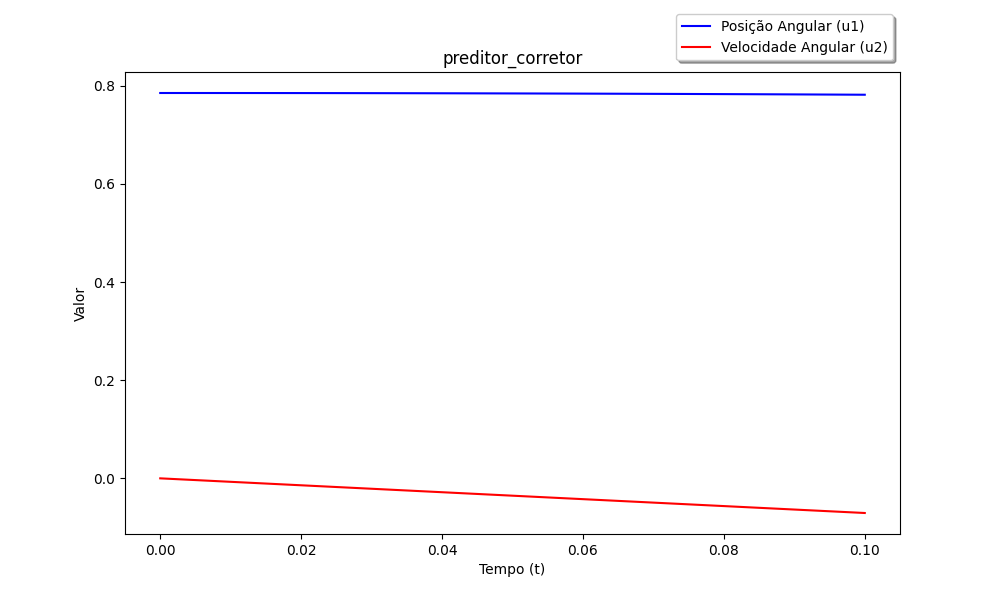
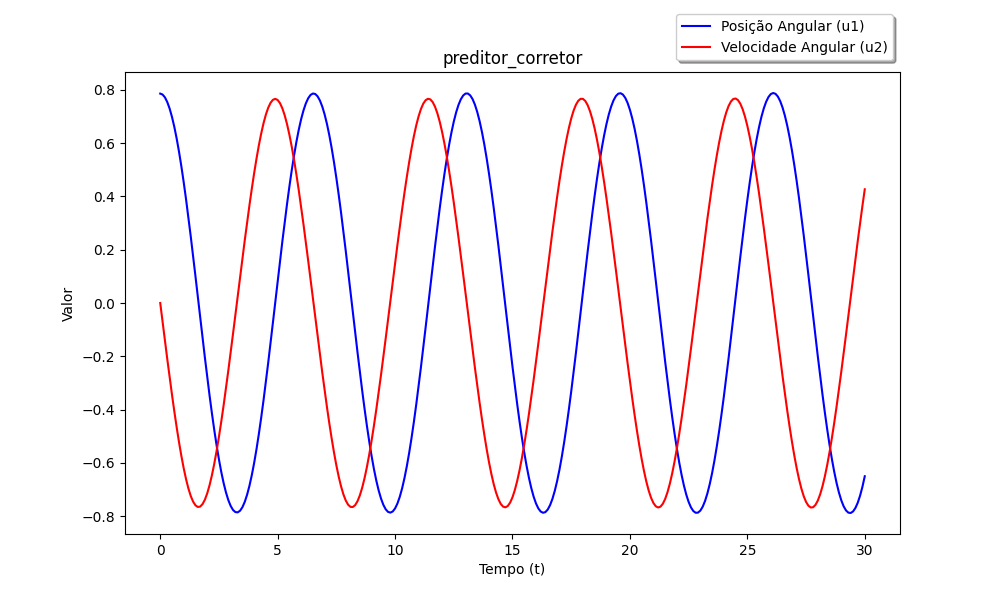
bao

diff --git a/02/main.py b/02/main.py
@@ -5,8 +5,8 @@ t0 = 0
 # Condição inicial u(0) = [u1(0), u2(0)]
 u0 = np.array([np.pi/4, 0])
 # Tamanho do passo
-h = 0.001
+h = 0.1
 # Número de passos
-num_passos = 100
+num_passos = 300
 
 metodos = Metodos(t0, u0, h, num_passos)
